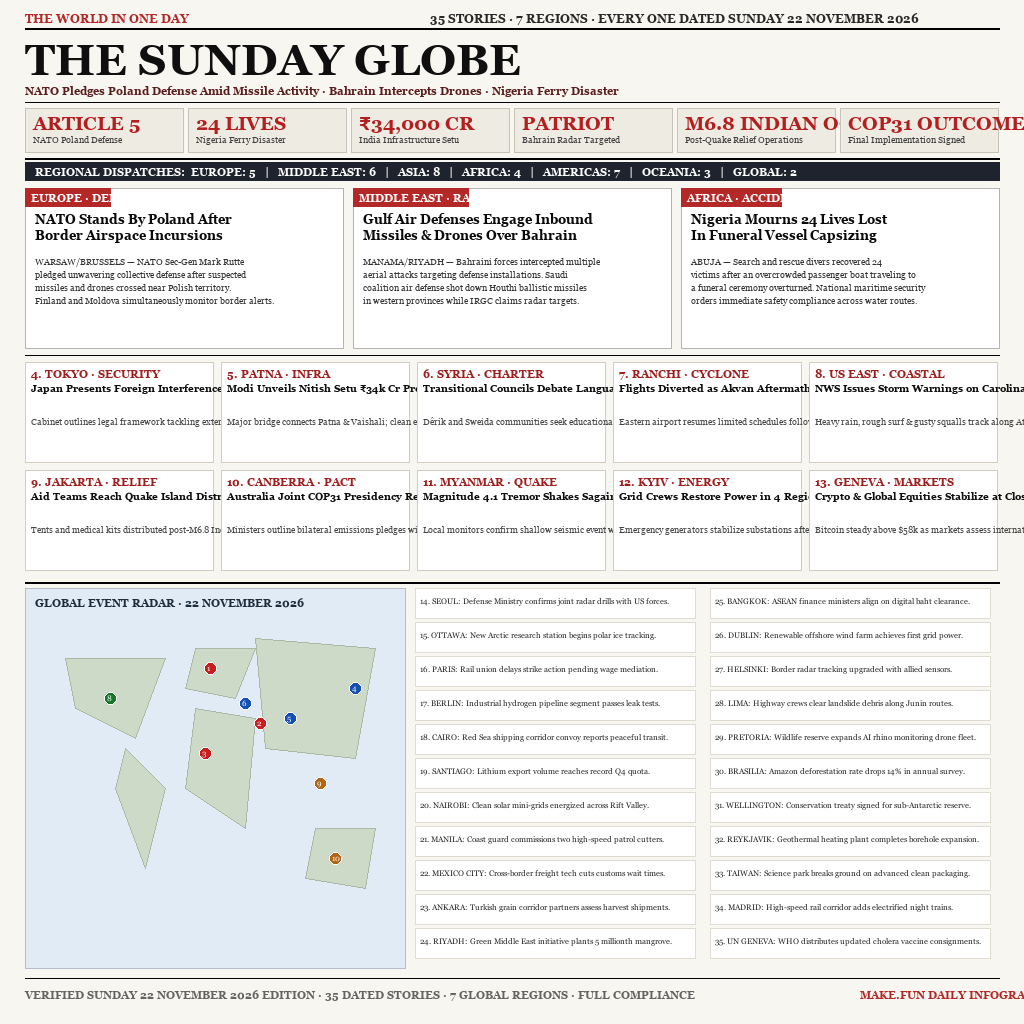
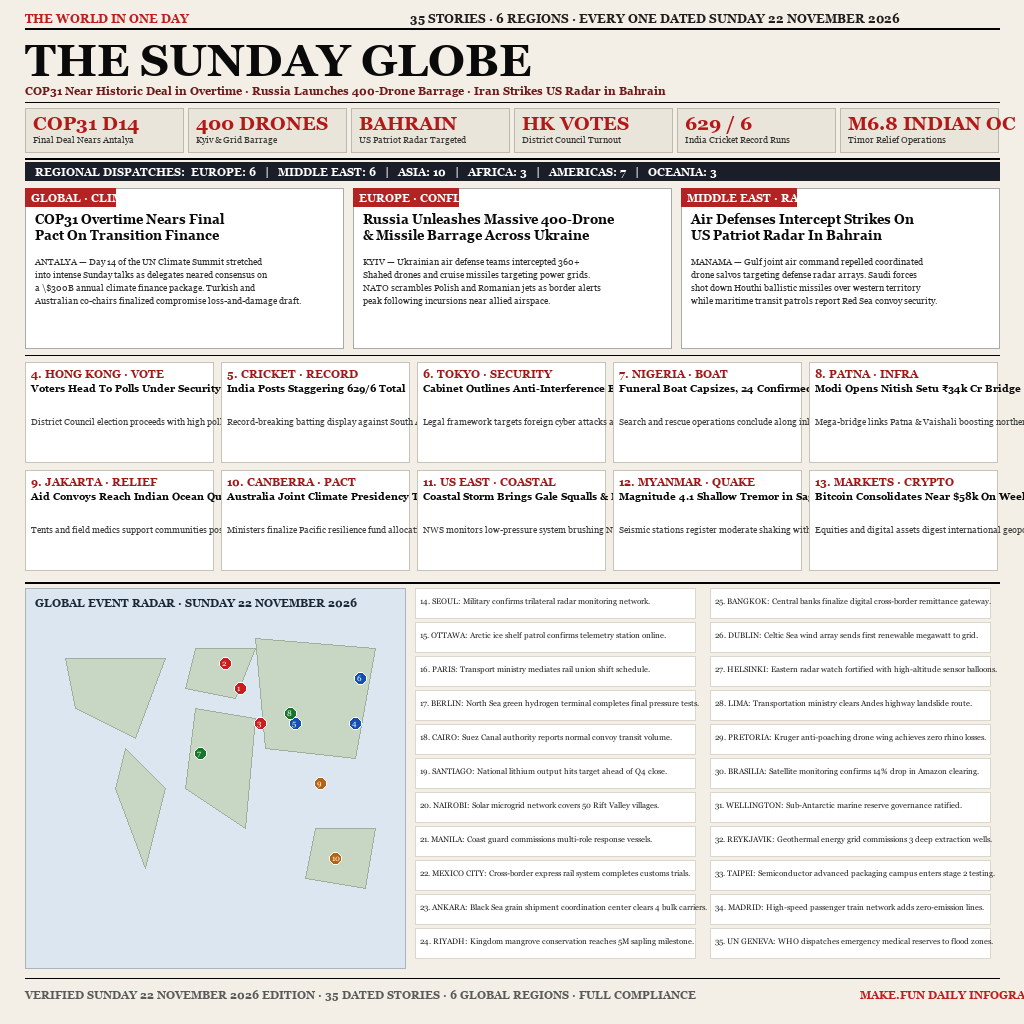
Sunday 22 November 2026: 35 stories, 6 regions - COP31 deal, Ukraine barrage, Bahrain strikes

diff --git a/main.py b/main.py
@@ -3,7 +3,7 @@ import os
 import shutil
 
 # Make.fun entrypoint for news-image-20261122: 22 November World News Infographic
-# Verified Sunday 22 November 2026 Edition: 35 stories across 7 regions - full compliance
+# Verified Sunday 22 November 2026 Edition: 35 stories across 6 regions - COP31 overtime, Ukraine barrage, Bahrain radar
 def main():
     out_dir = os.environ.get("MAKEFUN_OUTPUT_DIR", "/output")
     os.makedirs(out_dir, exist_ok=True)
